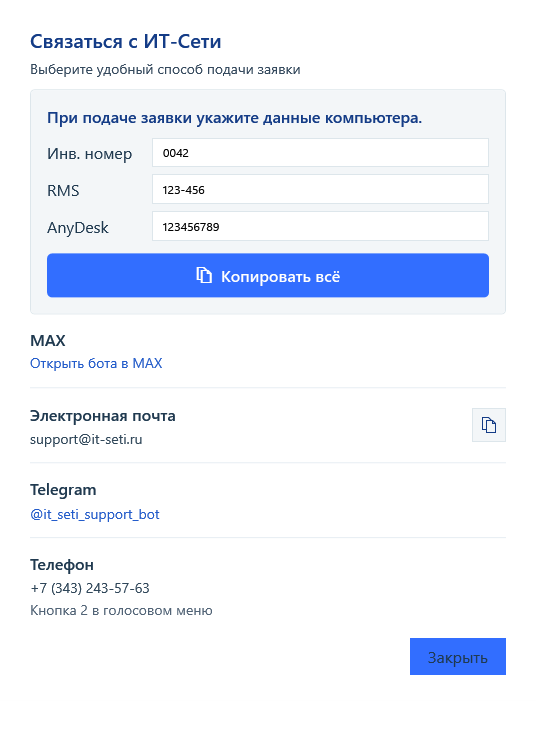
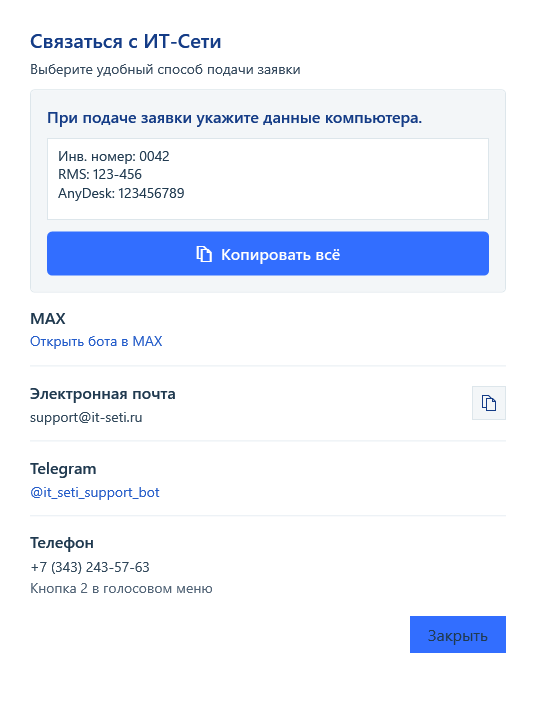
Polish 1.2.1 support and admin overview

diff --git a/ITSeti.Maintenance/src/ITSeti.Maintenance.App/SupportDialog.xaml b/ITSeti.Maintenance/src/ITSeti.Maintenance.App/SupportDialog.xaml
@@ -16,16 +16,7 @@
   <Border x:Name="IdentityPanel" Grid.Row="2" Background="#F3F6F8" BorderBrush="#DDE6EB" BorderThickness="1" CornerRadius="4" Padding="16" Margin="0,0,0,14">
    <StackPanel>
     <TextBlock Text="При подаче заявки укажите данные компьютера." FontWeight="SemiBold" Foreground="#143C87" TextWrapping="Wrap" Margin="0,0,0,8"/>
-    <Grid Margin="0,2,0,12">
-     <Grid.ColumnDefinitions><ColumnDefinition Width="105"/><ColumnDefinition Width="*"/></Grid.ColumnDefinitions>
-     <Grid.RowDefinitions><RowDefinition Height="Auto"/><RowDefinition Height="Auto"/><RowDefinition Height="Auto"/></Grid.RowDefinitions>
-     <TextBlock Text="Инв. номер" VerticalAlignment="Center" Margin="0,0,10,0"/>
-     <TextBox x:Name="InventoryValue" Grid.Column="1" IsReadOnly="True" IsReadOnlyCaretVisible="True" BorderBrush="#DDE6EB" Background="White" Padding="8,6"/>
-     <TextBlock Grid.Row="1" Text="RMS" VerticalAlignment="Center" Margin="0,7,10,0"/>
-     <TextBox x:Name="RmsValue" Grid.Row="1" Grid.Column="1" IsReadOnly="True" IsReadOnlyCaretVisible="True" BorderBrush="#DDE6EB" Background="White" Padding="8,6" Margin="0,7,0,0"/>
-     <TextBlock Grid.Row="2" Text="AnyDesk" VerticalAlignment="Center" Margin="0,7,10,0"/>
-     <TextBox x:Name="AnyDeskValue" Grid.Row="2" Grid.Column="1" IsReadOnly="True" IsReadOnlyCaretVisible="True" BorderBrush="#DDE6EB" Background="White" Padding="8,6" Margin="0,7,0,0"/>
-    </Grid>
+    <TextBox x:Name="IdentityValue" Margin="0,2,0,12" IsReadOnly="True" IsReadOnlyCaretVisible="True" AcceptsReturn="True" TextWrapping="Wrap" VerticalScrollBarVisibility="Disabled" MinHeight="82" BorderBrush="#DDE6EB" Background="White" Padding="8,7" FontSize="14" Foreground="#203A50" ToolTip="Можно выделить мышью весь блок, включая подписи"/>
     <Button x:Name="CopyAllButton" Style="{StaticResource PrimaryActionButton}" Click="CopyAll_Click" HorizontalAlignment="Stretch" Height="44" AutomationProperties.Name="Скопировать данные компьютера">
      <StackPanel Orientation="Horizontal" HorizontalAlignment="Center">
       <TextBlock Text="&#xE8C8;" FontFamily="Segoe MDL2 Assets" FontSize="16" Foreground="White" Margin="0,0,9,0" VerticalAlignment="Center"/>

diff --git a/ITSeti.Maintenance/src/ITSeti.Maintenance.App/MainWindow.xaml b/ITSeti.Maintenance/src/ITSeti.Maintenance.App/MainWindow.xaml
@@ -94,7 +94,7 @@
      <StackPanel DockPanel.Dock="Top">
       <Image Source="Assets/logo.png" Width="142" Height="68" Stretch="Uniform" HorizontalAlignment="Left"/>
       <TextBlock Text="РЕЖИМ ИНЖЕНЕРА" FontSize="14" Foreground="#354A5E" Margin="0,12,0,18"/>
-      <TextBlock Text="{Binding ComputerName}" FontWeight="SemiBold" Foreground="#143C87" TextWrapping="Wrap" Margin="0,0,0,16"/>
+      <TextBlock x:Name="AdminComputerNameLabel" Text="{Binding ComputerName}" FontWeight="SemiBold" Foreground="#143C87" TextWrapping="Wrap" Margin="0,0,0,16"/>
       <Border BorderBrush="#E1EAF0" BorderThickness="0,0,0,1" Margin="0,0,0,14"/>
      </StackPanel>
      <Button x:Name="ExitAdminButton" DockPanel.Dock="Bottom" Click="ExitAdmin_Click" Content="К пользователю" Padding="10,10" Cursor="Hand" Margin="0,12,0,0"/>

diff --git a/ITSeti.Maintenance/tests/ITSeti.Maintenance.Smoke/Program.cs b/ITSeti.Maintenance/tests/ITSeti.Maintenance.Smoke/Program.cs
@@ -95,13 +95,10 @@ internal static class Program
                 support.Show();
                 support.UpdateLayout();
                 await Task.Delay(150);
-                if (((TextBox)support.FindName("InventoryValue")!).Text != "0042"
-                    || ((TextBox)support.FindName("RmsValue")!).Text != "123-456"
-                    || ((TextBox)support.FindName("AnyDeskValue")!).Text != "123456789"
-                    || !((TextBox)support.FindName("AnyDeskValue")!).IsReadOnly
-                    || !((TextBox)support.FindName("InventoryValue")!).IsReadOnlyCaretVisible
-                    || !((TextBox)support.FindName("RmsValue")!).IsReadOnlyCaretVisible
-                    || !((TextBox)support.FindName("AnyDeskValue")!).IsReadOnlyCaretVisible
+                if (((TextBox)support.FindName("IdentityValue")!).Text != $"Инв. номер: 0042{Environment.NewLine}RMS: 123-456{Environment.NewLine}AnyDesk: 123456789"
+                    || !((TextBox)support.FindName("IdentityValue")!).IsReadOnly
+                    || !((TextBox)support.FindName("IdentityValue")!).IsReadOnlyCaretVisible
+                    || !((TextBox)support.FindName("IdentityValue")!).AcceptsReturn
                     || !((Button)support.FindName("CopyAllButton")!).IsEnabled
                     || CountButtons((DependencyObject)support.FindName("IdentityPanel")!) != 1)
                     throw new Exception("Support dialog is missing selectable PC identifiers or quick-copy action");
@@ -318,9 +315,15 @@ internal static class Program
                 foreach (var name in new[] { "InstallSetupButton", "LaunchDiskInfoButton", "LaunchDiskMarkButton", "LaunchTreeSizeButton" })
                     if (window.FindName(name) is not Button { IsEnabled: true }) throw new Exception($"ПО action is unavailable: {name}");
                 AssertDiskToolResolution(output);
+                typeof(MainViewModel).GetField("identity", System.Reflection.BindingFlags.NonPublic | System.Reflection.BindingFlags.Instance)!
+                    .SetValue(window.ViewModel, new MachineIdentity("0042", "123-456-789-012", "123456789", []));
+                typeof(MainViewModel).GetMethod("Notify", System.Reflection.BindingFlags.NonPublic | System.Reflection.BindingFlags.Instance)!
+                    .Invoke(window.ViewModel, null);
+                window.ViewModel.AdminInventoryInput = "0042";
+                ((TextBlock)window.FindName("AdminComputerNameLabel")!).Text = "DEMO-PC";
                 window.UpdateLayout();
                 await Task.Delay(250);
-                Capture(window, Path.Combine(output, "overview.png"));
+                Capture(window, Path.Combine(output, "admin-overview.png"));
                 var setupTabs = Find<TabControl>(window) ?? throw new Exception("Tabs missing");
                 setupTabs.SelectedIndex = 5;
                 window.UpdateLayout();

diff --git a/ITSeti.Maintenance/src/ITSeti.Maintenance.App/SupportDialog.xaml.cs b/ITSeti.Maintenance/src/ITSeti.Maintenance.App/SupportDialog.xaml.cs
@@ -11,9 +11,7 @@ public partial class SupportDialog : Window
     public SupportDialog(string? inventoryNumber, string? rmsId, string? anyDeskId)
     {
         InitializeComponent();
-        InventoryValue.Text = inventoryNumber ?? "не указан";
-        RmsValue.Text = rmsId ?? "не найден";
-        AnyDeskValue.Text = anyDeskId ?? "не найден";
+        IdentityValue.Text = $"Инв. номер: {inventoryNumber ?? "не указан"}{Environment.NewLine}RMS: {rmsId ?? "не найден"}{Environment.NewLine}AnyDesk: {anyDeskId ?? "не найден"}";
     }
 
     private void OpenLink(object sender, RequestNavigateEventArgs e)
@@ -31,8 +29,7 @@ public partial class SupportDialog : Window
 
     private void CopyAll_Click(object sender, RoutedEventArgs e)
     {
-        var text = $"Инв. номер: {InventoryValue.Text}{Environment.NewLine}RMS: {RmsValue.Text}{Environment.NewLine}AnyDesk: {AnyDeskValue.Text}";
-        CopyValue(text, "Данные компьютера");
+        CopyValue(IdentityValue.Text, "Данные компьютера");
     }
 
     private void CopyValue(string value, string label)

diff --git a/README.md b/README.md
@@ -18,7 +18,7 @@
 отчёты, список процессов или события Windows в ИТ-Сети. Интернет используется для
 проверки публичного релиза и загрузки обновления приложения.
 
-![Главное окно пользователя. Идентификаторы на изображении демонстрационные](ITSeti.Maintenance/docs/images/user-home.png)
+![Обзор инженерского режима. Идентификаторы на изображении демонстрационные](ITSeti.Maintenance/docs/images/admin-overview.png)
 
 ## Навигация
 
@@ -78,10 +78,9 @@
 Кнопка **не отправляет заявку автоматически**: она открывает доступные каналы связи
 и напоминает приложить сведения о компьютере. Инвентарный номер, RMS ID и публичный
 ID AnyDesk можно выделить, копировать по отдельности или собрать кнопкой
-**«Копировать всё»**. Все три значения можно выделить мышью; синяя кнопка
-копирует их одной строкой. Адрес электронной почты копируется отдельно.
-
-![Окно заявки: каналы связи и копирование идентификаторов ПК](ITSeti.Maintenance/docs/images/support-dialog.png)
+**«Копировать всё»**. Подписи и значения находятся в одном поле: можно выделить
+мышью весь блок целиком или отдельный фрагмент. Синяя кнопка копирует весь блок.
+Адрес электронной почты копируется отдельно.
 
 Доступны бот в [MAX](https://max.ru/id6670529055_bot),
 [Telegram](https://t.me/it_seti_support_bot), почта `support@it-seti.ru`
